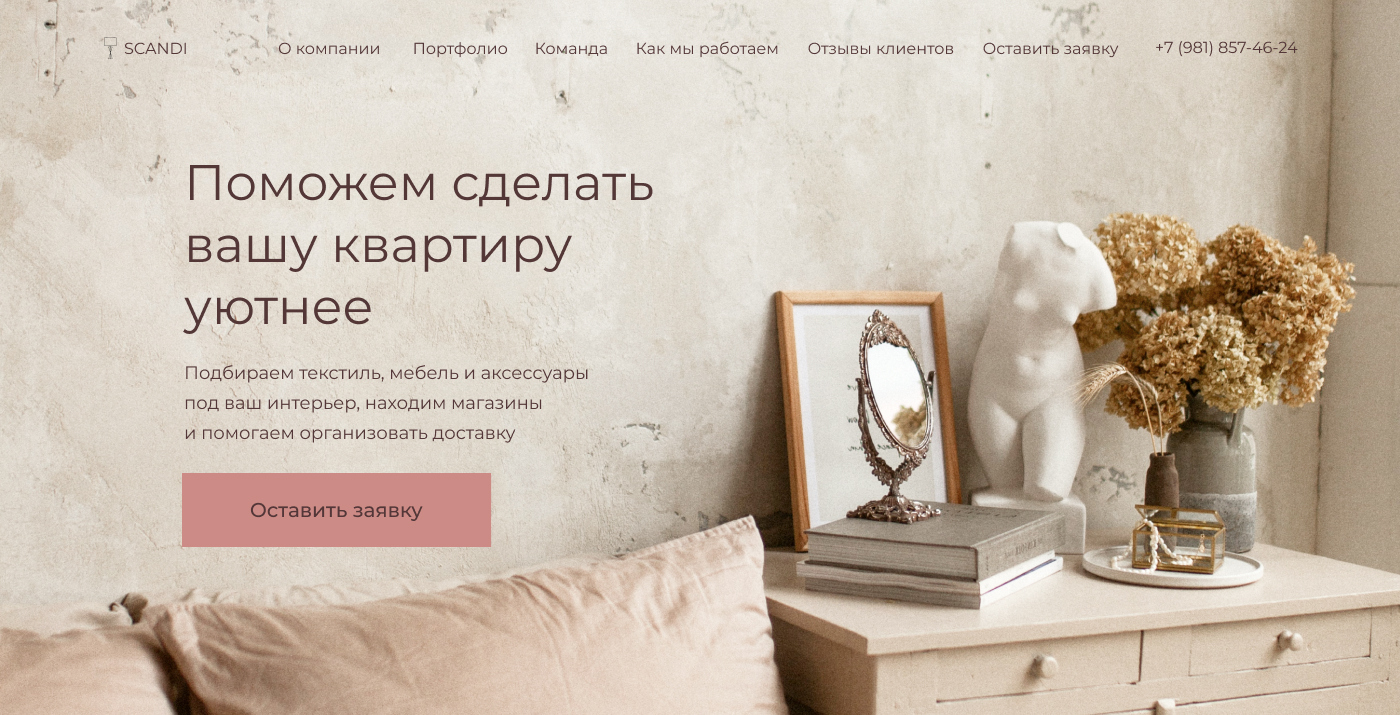
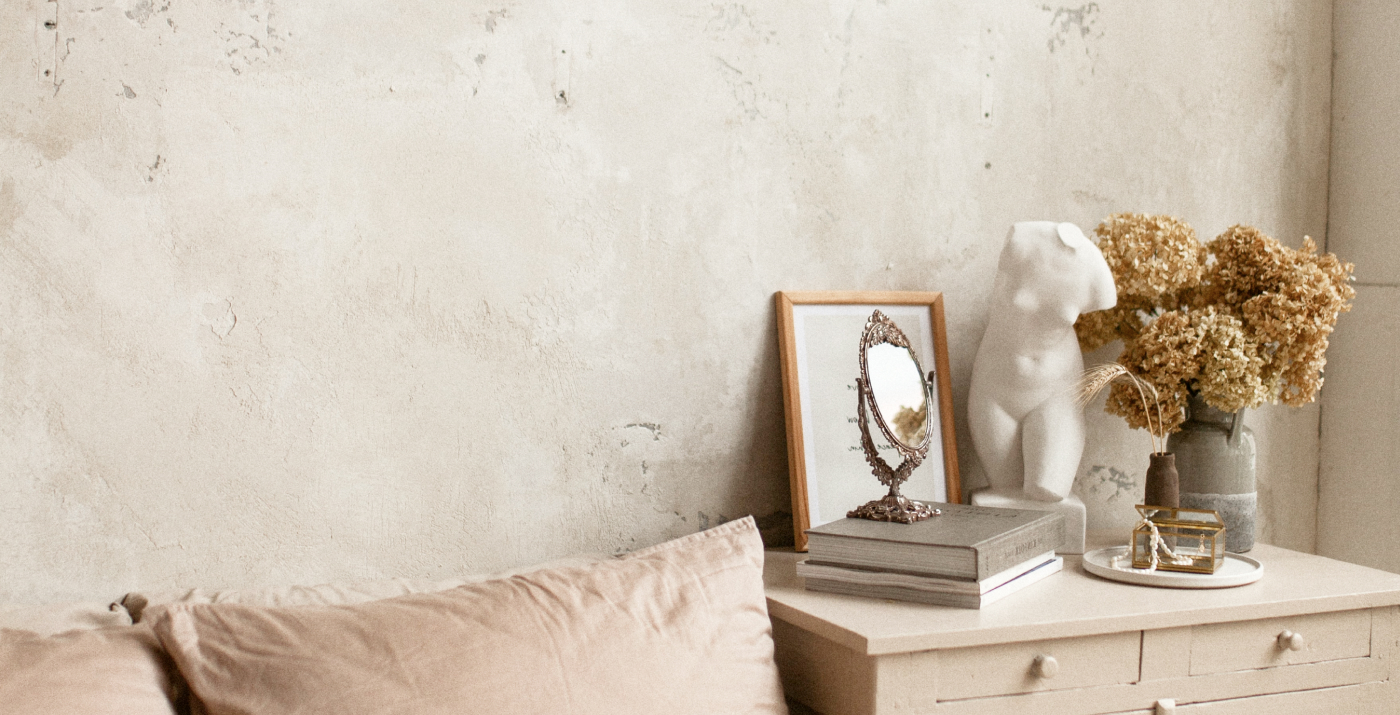
styling^header+promo

diff --git a/index.html b/index.html
@@ -9,28 +9,30 @@
     <link rel="preconnect" href="https://fonts.googleapis.com">
     <link rel="preconnect" href="https://fonts.gstatic.com" crossorigin>
     <link href="https://fonts.googleapis.com/css2?family=Montserrat:wght@400;500&display=swap" rel="stylesheet">
-    <link rel="stylesheet" href="styles/basic.css">
+    <link rel="stylesheet" href="styles/style.css">
 </head>
 
 <body>
     <header class="header">
         <div class="wrap">
-            <div class="logo">
-                <img src="img/logo.png" alt="">
-                <span>scandi</span>
+            <div class="top-line">
+                <div class="logo">
+                    <img src="img/logo.png" alt="">
+                    <span>scandi</span>
+                </div>
+                <nav class="main-menu">
+                    <ul>
+                        <li><a href="">О компании</a></li>
+                        <li><a href="">Портфолио</a></li>
+                        <li><a href="">Команда</a></li>
+                        <li><a href="">Как мы работаем</a></li>
+                        <li><a href="">Отзывы клиентов</a></li>
+                        <li><a href="">Оставить заявку</a></li>
+                        <li></li>
+                    </ul>
+                </nav>
+                <a href="tel:+79818574624" class="tel">+7 (981) 857-46-24</a>
             </div>
-            <nav class="main-menu">
-                <ul>
-                    <li><a href="">О компании</a></li>
-                    <li><a href="">Портфолио</a></li>
-                    <li><a href="">Команда</a></li>
-                    <li><a href="">Как мы работаем</a></li>
-                    <li><a href="">Отзывы клиентов</a></li>
-                    <li><a href="">Оставить заявку</a></li>
-                    <li></li>
-                </ul>
-            </nav>
-            <a href="tel:+79818574624" class="tel">+7 (981) 857-46-24</a>
         </div>
     </header>
     <main>

diff --git a/styles/style.css b/styles/style.css
@@ -1,0 +1,69 @@
+@import "basic.css";
+
+.top-line {
+    display: flex;
+    justify-content: space-between;
+    align-items: center;
+    margin-top: 35px;
+}
+
+.logo {
+    display: flex;
+    align-items: center;
+}
+
+.logo span {
+    font-size: 1rem;
+    text-transform: uppercase;
+}
+
+.main-menu ul {
+    display: flex;
+    gap: 25px;
+    list-style-type: none;
+}
+
+.main-menu a {
+    color: var(--brown);
+    font-size: 16px;
+}
+
+.tel {
+    font-size: 1rem;
+    color: var(--brown);
+}
+
+/*====promo=========*/
+.promo {
+    background: url(/img/header-bg.jpg) no-repeat;
+    padding-top: 150px;
+    margin-top: -60px;
+    padding-bottom: 170px;
+}
+
+.promo-text {
+    width: 455px;
+}
+
+.h1 {
+    font-size: 50px;
+    color: var(--brown);
+    margin-bottom: 24px;
+}
+
+.promo-p {
+    font-size: 1.2rem;
+    line-height: 150%;
+    margin-bottom: 20px;
+}
+
+.but {
+    padding: 25px 65px;
+    background-color: var(--light-br);
+    color: var(--brown);
+    font-size: 1.5rem;
+}
+
+.promo-but {
+    display: inline-block;
+}

diff --git a/styles/basic.css b/styles/basic.css
@@ -1,19 +1,35 @@
 @import "normalize.css";
 
+:root {
+    --brown: #533738;
+    --mid-br: #8D7370;
+    --light-br: #CC8B86;
+    --pale-br: #E2C4BA;
+}
+
+html {
+    font-size: 16px;
+}
+
 body {
-    color: blue;
     margin: 0;
     font-family: 'Montserrat', sans-serif;
     font-display: swap;
+    font-size: 16px;
+    /* background-image: url(../examp.jpg); */
 }
 
 .wrap {
-    max-width: 1400px;
+    min-width: 1200px;
     width: 80%;
     margin: 0 auto;
 }
 
-.logo {
-    width: 50px;
-    height: 40px;
+a {
+    text-decoration: none;
+}
+
+ul {
+    margin: 0;
+    padding: 0;
 }
